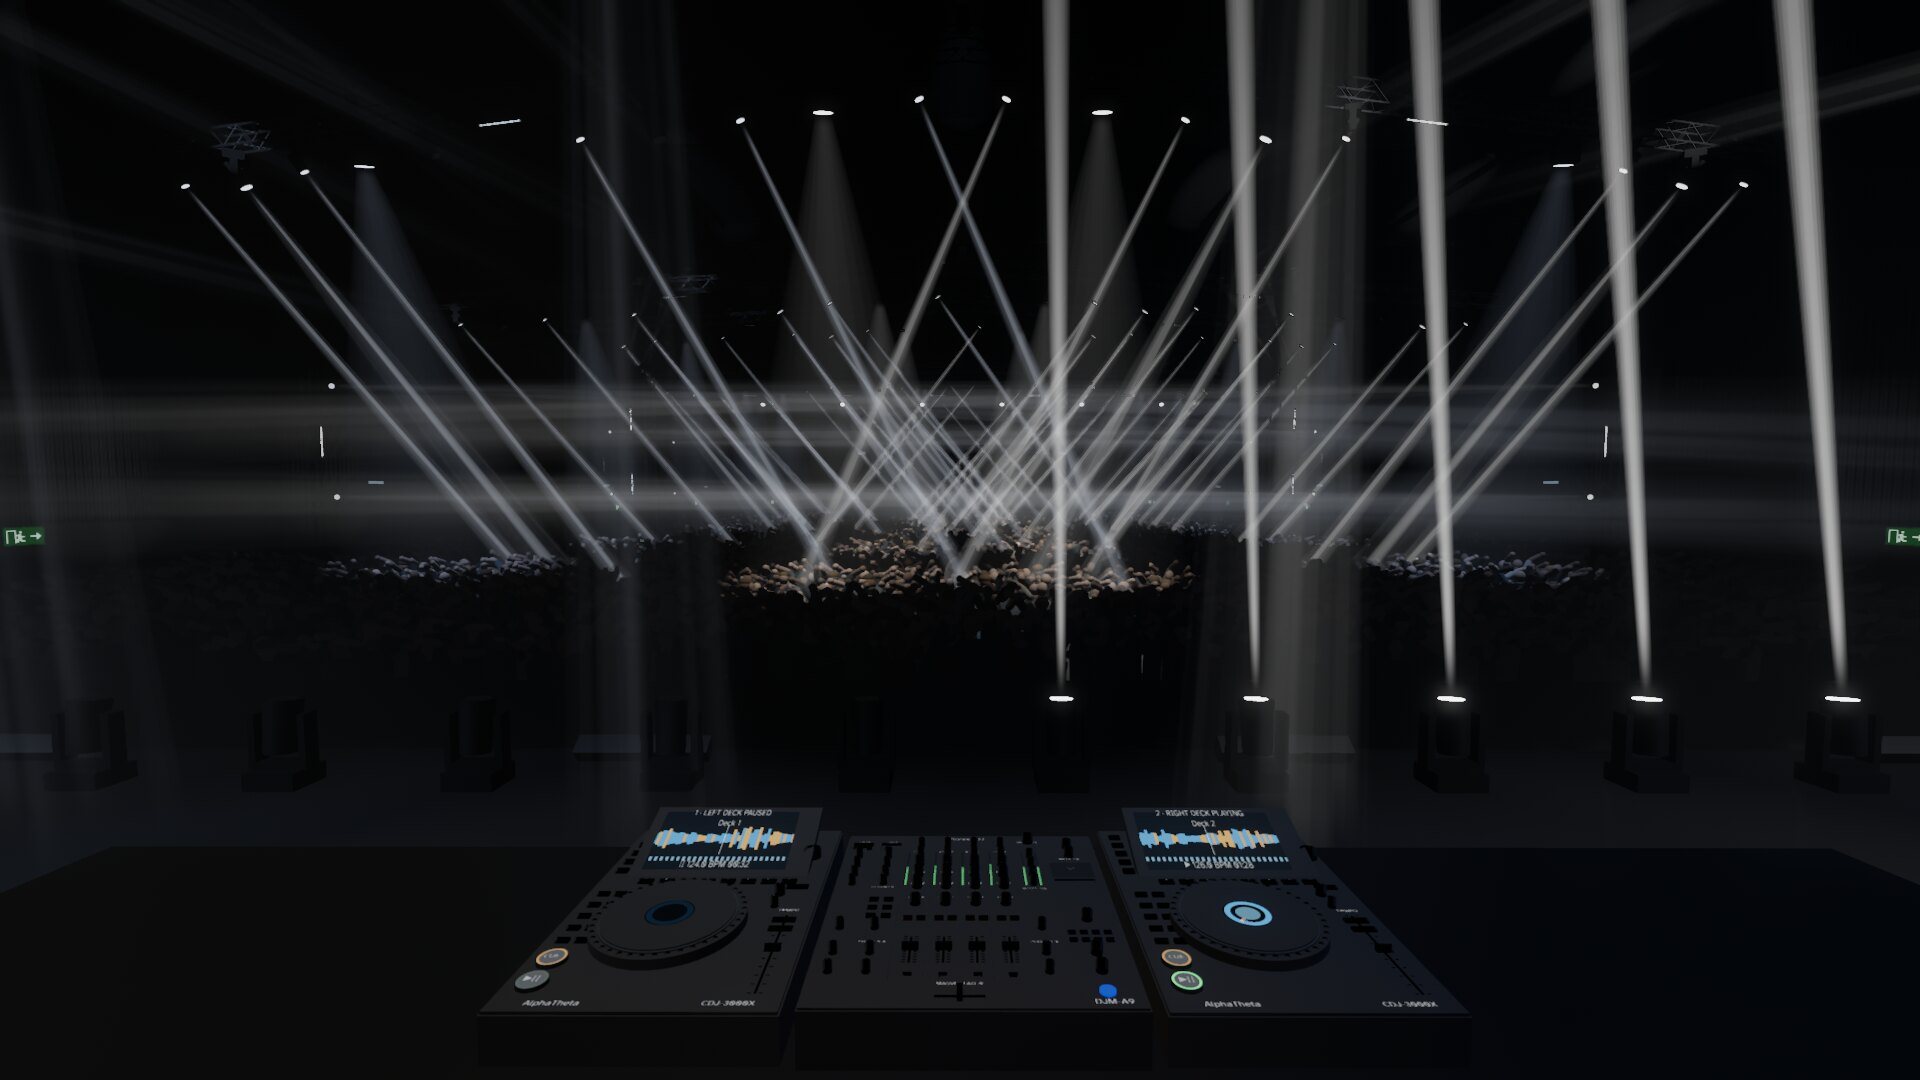
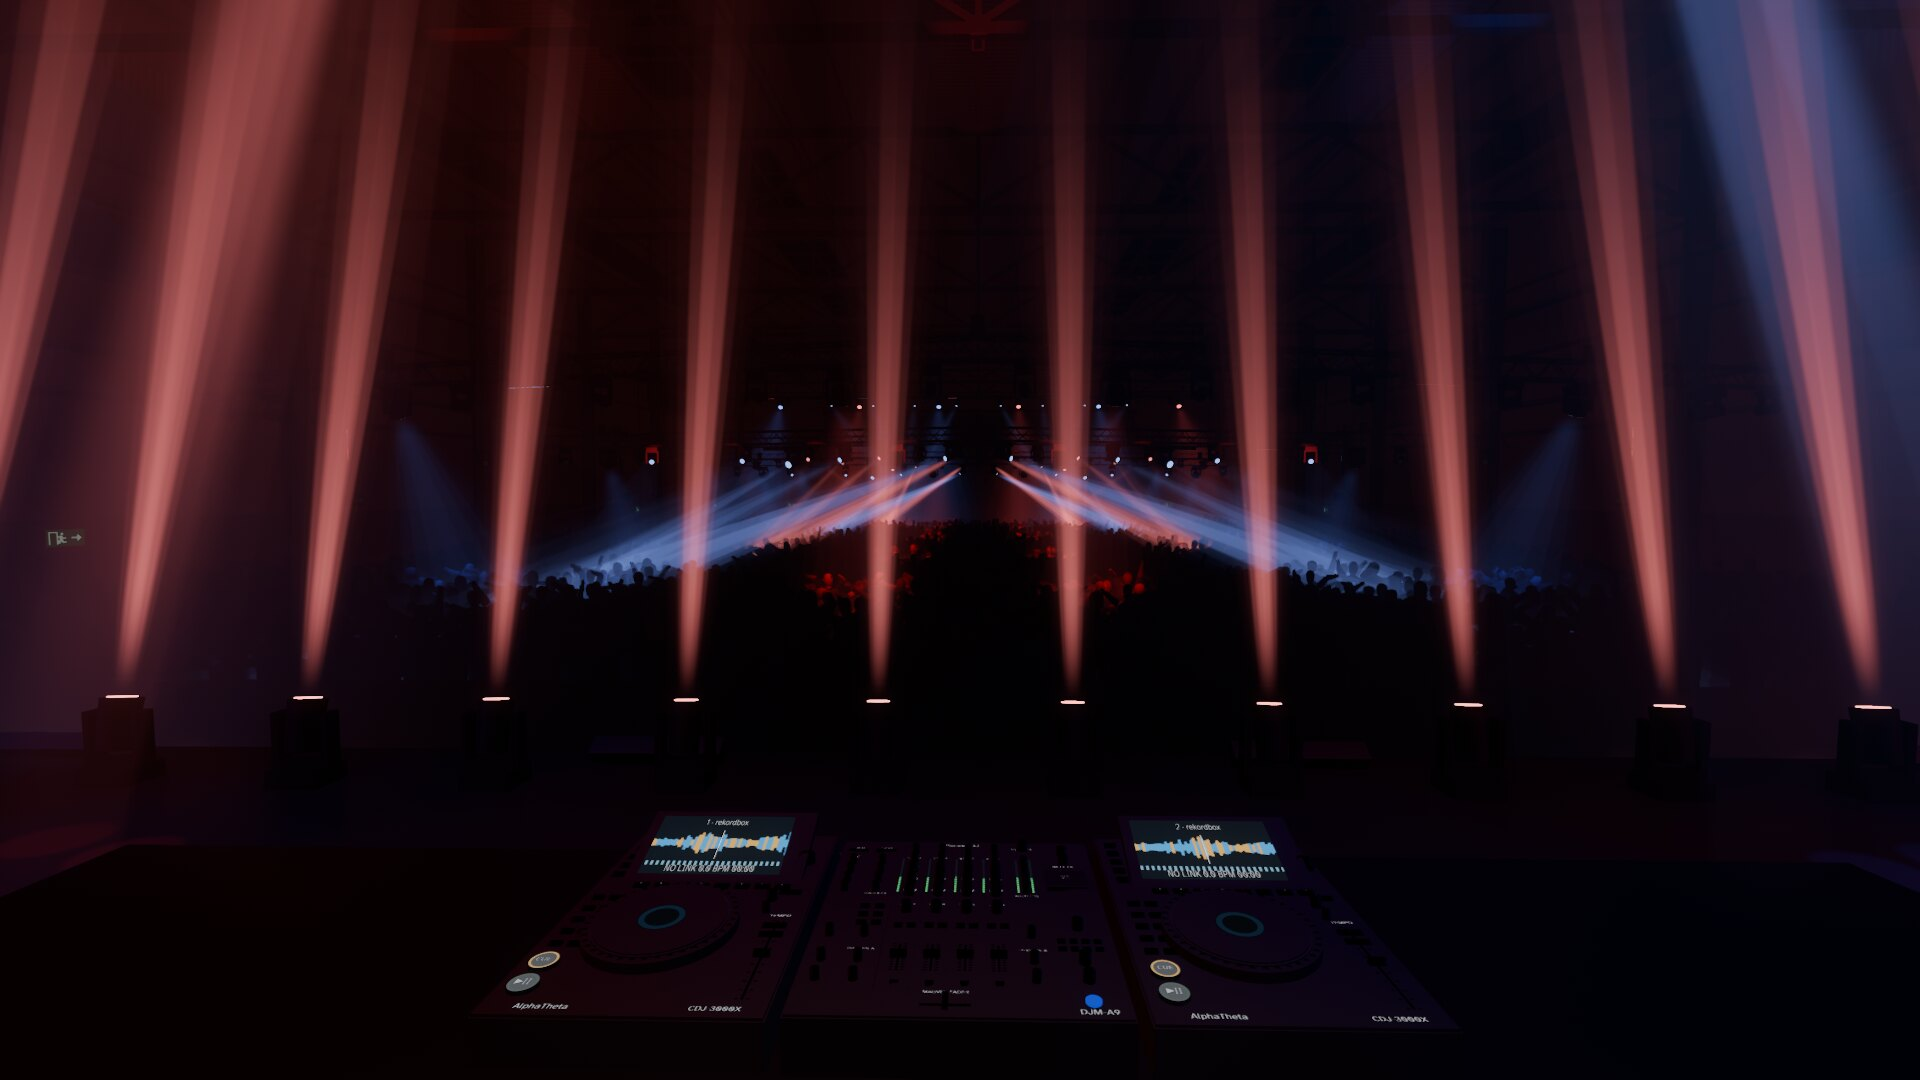
README: pictures of 0.53, the hangar and the crowd

diff --git a/README.md b/README.md
@@ -9,7 +9,7 @@
 
 <p align="center">
   <strong>Stand behind the decks of a hangar show. The light follows what you play.</strong><br>
-  A full-width festival stage, 182 moving heads, haze and a crowd, lit live from your music.
+  A full-width festival stage in an industrial hangar, 182 moving heads, haze and a crowd of 3,000, lit live from your music.
 </p>
 
 <p align="center">
@@ -19,7 +19,7 @@
   <a href="LICENSE">MIT license</a>
 </p>
 
-![The drop: the whole rig opens in white over the crowd](docs/screenshots/hangar-drop.jpg)
+![The hangar from the crowd: steel roof girders in the haze, beams crossing over raised hands](docs/screenshots/hangar-hall.jpg)
 
 SV is for someone who DJs at home and wants the real thing around them: one hall, one stage over the full width, one
 DJ booth with two CDJ-3000X players and a DJM-A9. Play from rekordbox or any music on your computer, and a lighting
@@ -31,12 +31,12 @@ history of this repository, up to [v0.40.1](https://github.com/SlipstreamSurfer/
 
 <table>
   <tr>
-    <td width="50%"><img src="docs/screenshots/hangar-booth.jpg" alt="Through the DJ's eyes: two CDJ-3000X players with live deck screens and a DJM-A9, the rig crossing over the crowd" width="100%"></td>
-    <td width="50%"><img src="docs/screenshots/hangar-break.jpg" alt="A break: the stage row stands as a curtain of light and the trusses come down" width="100%"></td>
+    <td width="50%"><img src="docs/screenshots/hangar-booth.jpg" alt="Through the DJ's eyes: two CDJ-3000X players and a DJM-A9, the stage row and the hall heads in front" width="100%"></td>
+    <td width="50%"><img src="docs/screenshots/hangar-drop.jpg" alt="The drop: the whole rig opens, blinders light the crowd" width="100%"></td>
   </tr>
   <tr>
     <td align="center"><strong>Through the DJ's eyes</strong><br>The decks show what rekordbox plays.</td>
-    <td align="center"><strong>The break</strong><br>A curtain of light; the trusses come down.</td>
+    <td align="center"><strong>The drop</strong><br>The whole rig opens; blinders light the crowd.</td>
   </tr>
   <tr>
     <td width="50%"><img src="docs/screenshots/setup.jpg" alt="First start: choose your source" width="100%"></td>
@@ -47,6 +47,8 @@ history of this repository, up to [v0.40.1](https://github.com/SlipstreamSurfer/
     <td align="center"><strong>Escape</strong><br>A menu; the show goes on.</td>
   </tr>
 </table>
+
+*Actual screenshots of 0.53 at Ultra.*
 
 ## Start
 
@@ -92,7 +94,8 @@ A DJ controller can work the same buttons: Pause menu → DJ controller → Lear
 
 ## Inside
 
-- **Hall**: a hangar of 44 × 76 m, 15 m high, haze, a crowd of 3,000.
+- **Hall**: an industrial hangar of 44 × 76 m, 15 m high: steel girders and columns, cladding, exits, haze, a
+  concrete floor that shines when wet, and a crowd of 3,000 that moves to the music.
 - **Rig**: five hall trusses in a V on chain hoists, a truss at the back, towers behind the DJ, delay towers and
   side towers: beams, spots with gobos, washes, strobe battens and blinders.
 - **Show**: SV's lighting director, with 36 genres from Beatport, 25 looks for the heads, 15 truss formations and
